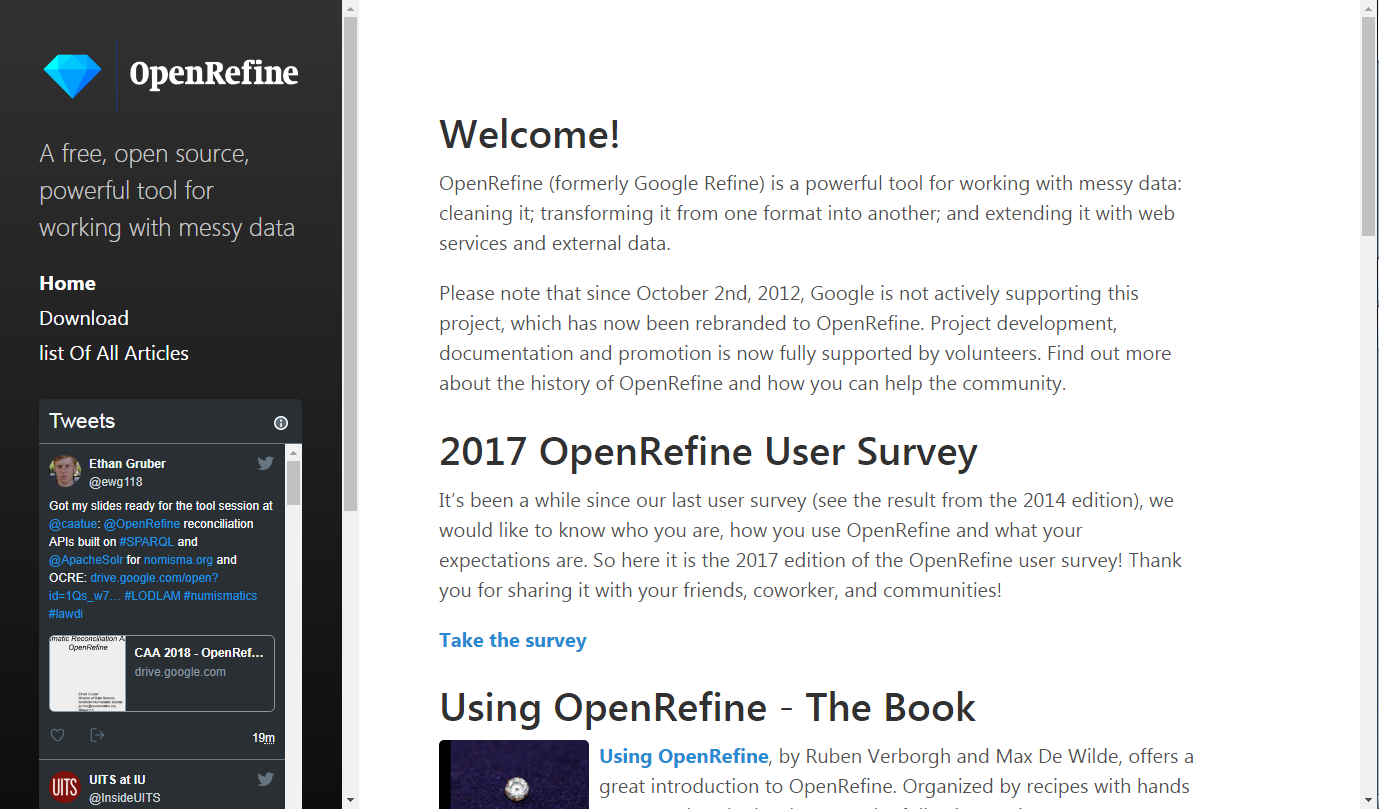
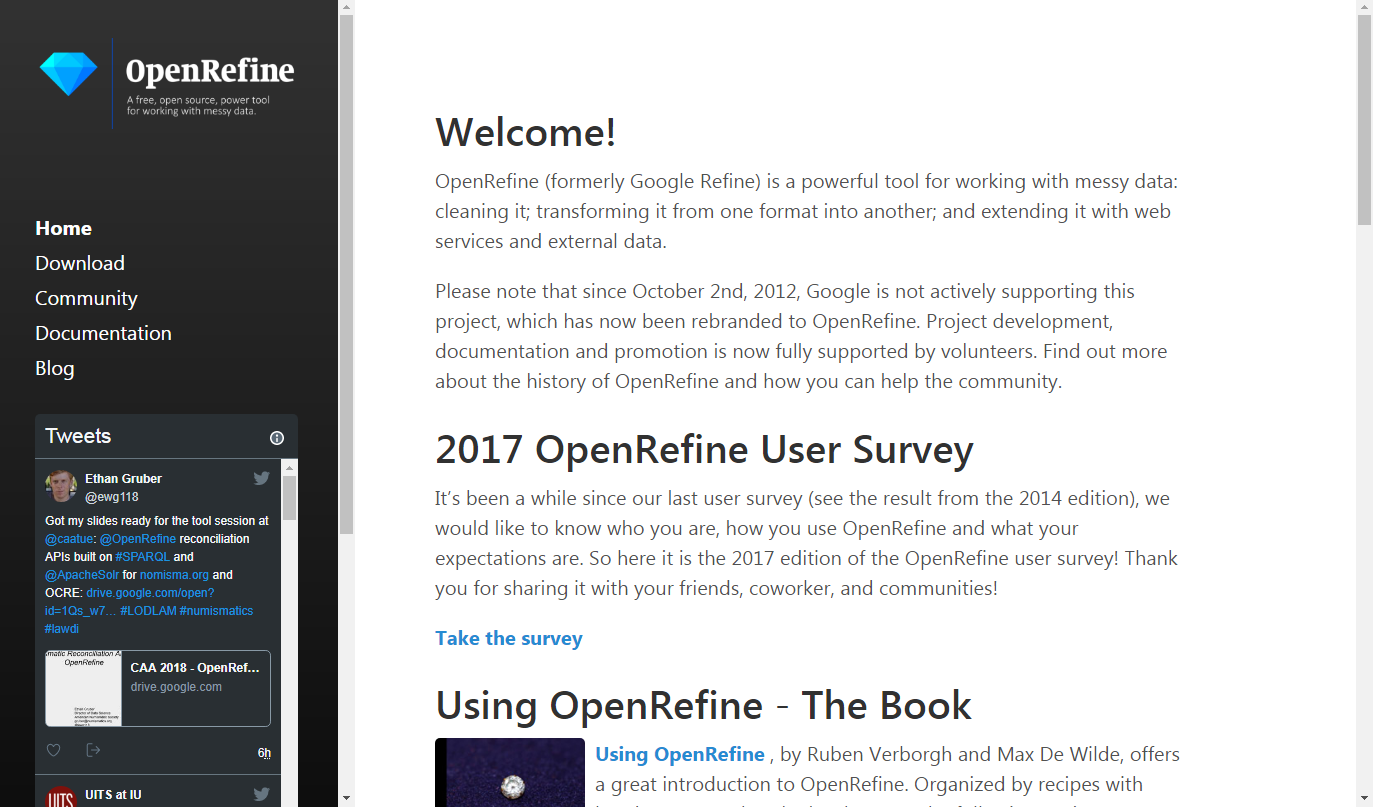
Added new theme

diff --git a/_layouts/documentation.html b/_layouts/documentation.html
@@ -1,0 +1,48 @@
+---
+layout: default
+title: Documentation
+sidebar_link: true
+
+---
+
+<div id="content">
+  <h1 id="documentation-for-user">Documentation for User</h1>
+
+<h2 id="official-documentation">Official Documentation</h2>
+<ul>
+  <li><strong><a href="https://github.com/OpenRefine/OpenRefine/wiki/FAQ">FAQ</a></strong></li>
+  <li><strong><a href="https://github.com/OpenRefine/OpenRefine/wiki/">Official Documentation Wiki</a></strong></li>
+  <li><strong><a href="http://groups.google.com/group/openrefine/">OpenRefine Mailing List</a></strong></li>
+  <li><strong><a href="https://github.com/OpenRefine/OpenRefine/issues?milestone=&amp;page=1&amp;state=open">File a Bug or Feature Request</a></strong></li>
+</ul>
+
+<h2 id="tutorials">Tutorials</h2>
+<ul>
+  <li><strong><a href="https://github.com/OpenRefine/OpenRefine/wiki/External-Resources">Curated Tutorial List</a></strong></li>
+</ul>
+
+<h2 id="using-openrefine---the-book">Using OpenRefine - The Book</h2>
+<div style="float: left ; margin-right: 10px"><img src="https://raw.github.com/OpenRefine/openrefine.github.com/master/images/using-openrefine.jpg" width="150" /></div>
+
+<p><strong><a href="http://www.packtpub.com/openrefine-guide-for-data-analysis-and-linking-dataset-to-the-web/book">Using OpenRefine</a></strong> by Ruben Verborgh, Max De Wilde offers anyone a great introduction to OpenRefine. Organized by recipes with hands on examples, the book covers the following topics:</p>
+
+<ol>
+  <li>Import data in various formats</li>
+  <li>Explore datasets in a matter of seconds</li>
+  <li>Apply basic and advanced cell transformations</li>
+  <li>Deal with cells that contain multiple values</li>
+  <li>Create instantaneous links between datasets</li>
+  <li>Filter and partition your data easily with regular expressions</li>
+  <li>Use named-entity extraction on full-text fields to automatically identify topics</li>
+  <li>Perform advanced data operations with the General Refine Expression Language</li>
+</ol>
+
+<h1 id="documentation-for-developers">Documentation for Developers</h1>
+<ul>
+  <li><strong><a href="https://github.com/OpenRefine/OpenRefine/wiki/Documentation-For-Developers">Wiki for Developers</a></strong></li>
+  <li><strong><a href="https://groups.google.com/forum/?fromgroups#!forum/openrefine-dev">Developer Discussion List</a></strong></li>
+</ul>
+
+  </div>
+  
+</div>

diff --git a/_includes/sidebar-icon-links.html b/_includes/sidebar-icon-links.html
@@ -1,4 +1,5 @@
 <nav id="sidebar-icon-links">
+
   {% if site.github %}
     <a id="github-link"
        class="icon" title="Github Project" aria-label="Github Project"
@@ -12,44 +13,8 @@
       {% include svg/twitter.svg %}
     </a>
   {% endif %}
-<!--
-  <a id="subscribe-link"
-     class="icon" title="Subscribe" aria-label="Subscribe"
-     href="{{ site.baseurl }}/feed.xml">
-    {% include svg/feed.svg %}
-  </a>
-
-  {% comment %}
-    Check if we have tag or search pages page active before linking to it.
-  {% endcomment %}
-  {% assign tags_page = false %}
-  {% assign search_page = false %}
-  {% for node in site.pages %}
-    {% if node.layout == "tags" %}
-      {% assign tags_page = node %}
-    {% elsif node.layout == "search" %}
-      {% assign search_page = node %}
-    {% endif %}
-  {% endfor %}
-
-  {% if tags_page %}
-    <a id="tags-link"
-       class="icon{% if page.url == '/tags' %} active{% endif %}"
-       title="Tags" aria-label="Tags"
-       href="{{ site.baseurl }}{{ tags_page.url }}">
-      {% include svg/tags.svg %}
-    </a>
-  {% endif %}
-
-  {% if search_page %}
-    <a id="search-link"
-       class="icon{% if page.url == '/search' %} active{% endif %}"
-       title="Search" aria-label="Search"
-       href="{{ site.baseurl }}{{ search_page.url }}">
-      {% include svg/search.svg %}
-    </a>
-  {% endif %}
--->
-
-  {% include custom-icon-links.html %}
+  
+{% include custom-icon-links.html %}
 </nav>
+
+  

diff --git a/_layouts/index.html b/_layouts/index.html
@@ -28,8 +28,13 @@ and how you can help the community.</p>
 <h1 id="using-openrefine---the-book">Using OpenRefine - The Book</h1>
 <div style="float: left ; margin-right: 10px"><img src="https://raw.github.com/OpenRefine/openrefine.github.com/master/images/using-openrefine.jpg" width="150" /></div>
 
-<p><strong><a href="http://www.packtpub.com/openrefine-guide-for-data-analysis-and-linking-dataset-to-the-web/book">Using OpenRefine</a></strong>, by Ruben Verborgh and Max De Wilde, offers a great introduction to OpenRefine. Organized by recipes with hands on examples, the book covers the following topics:</p>
-
+<div><p><strong><a href="http://www.packtpub.com/openrefine-guide-for-data-analysis-and-linking-dataset-to-the-web/book">Using OpenRefine</a></strong>
+  , by Ruben Verborgh and Max De Wilde, offers a great introduction to OpenRefine. Organized by recipes with hands on examples, the book covers the following topics:</p>
+</div>
+<br>
+<br>
+<br>
+<br>
 <ol>
   <li>Import data in various formats</li>
   <li>Explore datasets in a matter of seconds</li>

diff --git a/_includes/sidebar.html b/_includes/sidebar.html
@@ -21,15 +21,7 @@
 
 <script async src="https://platform.twitter.com/widgets.js" charset="utf-8"></script>
 
- 
-  {% if site.version %}
-
-
-    <span class="site-version">Currently v{{ site.version }}</span>
-  {% endif %}
 
   {% include sidebar-icon-links.html %}
-  {% include copyright.html %}
-
 
 </div>

diff --git a/_includes/sidebar-nav-links.html b/_includes/sidebar-nav-links.html
@@ -1,3 +1,5 @@
+<br>
+<br>
 <nav id="sidebar-nav-links">
   {% if site.sidebar_home_link %}
     <a class="home-link {% if page.url == '/' %} active{% endif %}"

diff --git a/assets/css/main.scss b/assets/css/main.scss
@@ -4,6 +4,3 @@
 ---
 
 @import "hydeout";
-a.page-link.active {
-    display: none;
-}

diff --git a/community.md b/community.md
@@ -1,0 +1,47 @@
+---
+layout: default
+title: Community
+sidebar_link: true
+
+---
+<div id="content">
+  <h1 id="how-to-contribute">How to contribute</h1>
+
+<p>Interested in helping OpenRefine development? Please review our <a href="https://github.com/OpenRefine/OpenRefine/blob/master/CONTRIBUTING.md">contributions guidelines</a>.</p>
+
+<p>#Current &amp; Previous Contributors</p>
+
+<p>##Current</p>
+
+<ul>
+  <li>Lead Developer: Tom Morris - <a href="https://twitter.com/tfmorris">@tfmorris</a> - <a href="https://github.com/tfmorris">Github</a></li>
+  <li>Sponsor, Tester, Documentation: Thad Guidry - <a href="http://twitter.com/thadguidry">@thadguidry</a> - <a href="https://github.com/thadguidry">Github</a></li>
+  <li>Documentation &amp; Community: Martin Magdinier - <a href="http://twitter.com/magdmartin">@magdmartin</a> - <a href="https://github.com/magdmartin">GitHub</a></li>
+  <li>See list of <a href="https://github.com/OpenRefine/OpenRefine/graphs/contributors">all recent code contributors </a></li>
+</ul>
+
+<p>##Previous Contributors
+This software was created by Metaweb Technologies, Inc. and originally written and conceived by David Huynh <a href="mailto:dfhuynh@google.com">dfhuynh@google.com</a>. Metaweb Technologies, Inc. was acquired by Google, Inc. in July 2010 and the product was renamed Google Refine. In October 2012, it was renamed OpenRefine as it transitioned to a community-supported product.</p>
+
+<p>They helped to develop Gridworks and Google Refine (in chronological order):</p>
+
+<ul>
+  <li>David Huynh <a href="mailto:dfhuynh@google.com">dfhuynh@google.com</a></li>
+  <li>Stefano Mazzocchi <a href="mailto:stefanom@google.com">stefanom@google.com</a></li>
+  <li>Vishal Talwar <a href="mailto:vtalwar@google.com">vtalwar@google.com</a></li>
+  <li>Jeff Fry <a href="mailto:jfry@google.com">jfry@google.com</a></li>
+  <li>Will Moffat <a href="mailto:wdm@google.com">wdm@google.com</a></li>
+  <li>James Home <a href="mailto:jameshome@google.com">jameshome@google.com</a></li>
+  <li>Iain Sproat <a href="mailto:iainsproat@gmail.com">iainsproat@gmail.com</a></li>
+  <li>Tom Morris <a href="mailto:tfmorris@gmail.com">tfmorris@gmail.com</a></li>
+  <li>Heather Campbell <a href="mailto:campbellh@google.com">campbellh@google.com</a></li>
+  <li>Thad Guidry <a href="mailto:thadguidry@gmail.com">thadguidry@gmail.com</a></li>
+  <li>Paul Makepeace <a href="mailto:paulm@paulm.com">paulm@paulm.com</a></li>
+  <li>Tomaž Šolc <a href="mailto:tomaz.solc@zemanta.com">tomaz.solc@zemanta.com</a></li>
+  <li>Gabriel Sjoberg <a href="mailto:GabrielSjoberg@gmail.com">GabrielSjoberg@gmail.com</a></li>
+  <li>Rod Salazar <a href="mailto:rodrod.salazar@gmail.com">rodrod.salazar@gmail.com</a></li>
+  <li>pxb <a href="mailto:pxb1988@gmail.com">pxb1988@gmail.com</a></li>
+</ul>
+
+  </div>
+  

diff --git a/documentation.md b/documentation.md
@@ -1,0 +1,51 @@
+---
+layout: default
+title: Documentation
+sidebar_link: true
+
+---
+
+<div id="content">
+  <h1 id="documentation-for-user">Documentation for User</h1>
+
+<h2 id="official-documentation">Official Documentation</h2>
+<ul>
+  <li><strong><a href="https://github.com/OpenRefine/OpenRefine/wiki/FAQ">FAQ</a></strong></li>
+  <li><strong><a href="https://github.com/OpenRefine/OpenRefine/wiki/">Official Documentation Wiki</a></strong></li>
+  <li><strong><a href="http://groups.google.com/group/openrefine/">OpenRefine Mailing List</a></strong></li>
+  <li><strong><a href="https://github.com/OpenRefine/OpenRefine/issues?milestone=&amp;page=1&amp;state=open">File a Bug or Feature Request</a></strong></li>
+</ul>
+
+<h2 id="tutorials">Tutorials</h2>
+<ul>
+  <li><strong><a href="https://github.com/OpenRefine/OpenRefine/wiki/External-Resources">Curated Tutorial List</a></strong></li>
+</ul>
+
+<h2 id="using-openrefine---the-book">Using OpenRefine - The Book</h2>
+<div style="float: left ; margin-right: 10px"><img src="https://raw.github.com/OpenRefine/openrefine.github.com/master/images/using-openrefine.jpg" width="150" /></div>
+
+<p><strong><a href="http://www.packtpub.com/openrefine-guide-for-data-analysis-and-linking-dataset-to-the-web/book">Using OpenRefine</a></strong> by Ruben Verborgh, Max De Wilde offers anyone a great introduction to OpenRefine. Organized by recipes with hands on examples, the book covers the following topics:</p>
+<br>
+<br>
+<br>
+<br>
+<ol>
+  <li>Import data in various formats</li>
+  <li>Explore datasets in a matter of seconds</li>
+  <li>Apply basic and advanced cell transformations</li>
+  <li>Deal with cells that contain multiple values</li>
+  <li>Create instantaneous links between datasets</li>
+  <li>Filter and partition your data easily with regular expressions</li>
+  <li>Use named-entity extraction on full-text fields to automatically identify topics</li>
+  <li>Perform advanced data operations with the General Refine Expression Language</li>
+</ol>
+
+<h1 id="documentation-for-developers">Documentation for Developers</h1>
+<ul>
+  <li><strong><a href="https://github.com/OpenRefine/OpenRefine/wiki/Documentation-For-Developers">Wiki for Developers</a></strong></li>
+  <li><strong><a href="https://groups.google.com/forum/?fromgroups#!forum/openrefine-dev">Developer Discussion List</a></strong></li>
+</ul>
+
+  
+  
+</div>

diff --git a/category/edge-case.md b/category/edge-case.md
@@ -1,6 +1,6 @@
 ---
 layout: category
-title: list Of All Articles
+title: Blog
 category: My Category
 ---
 
